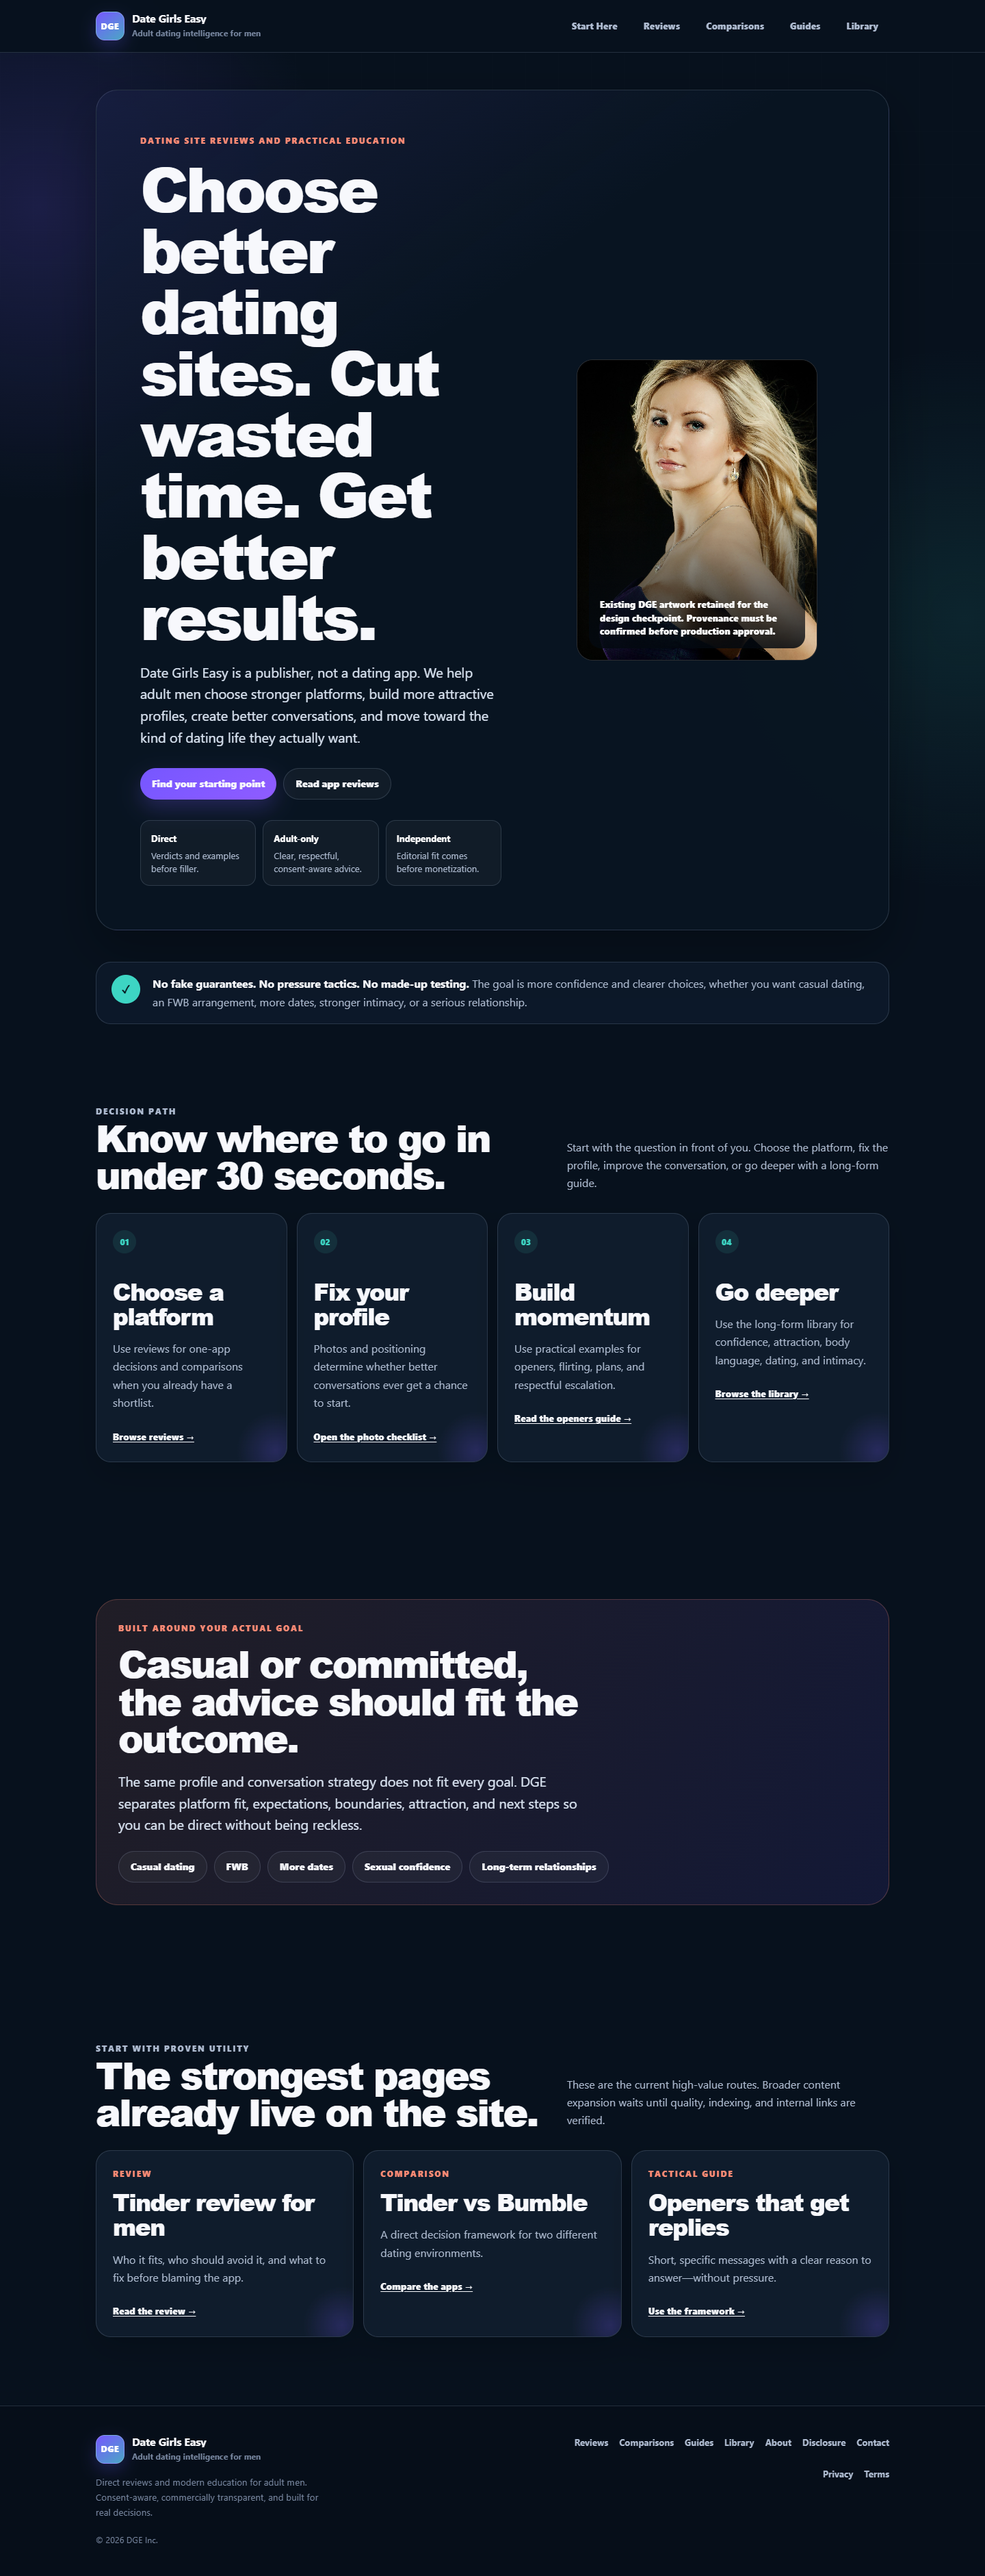
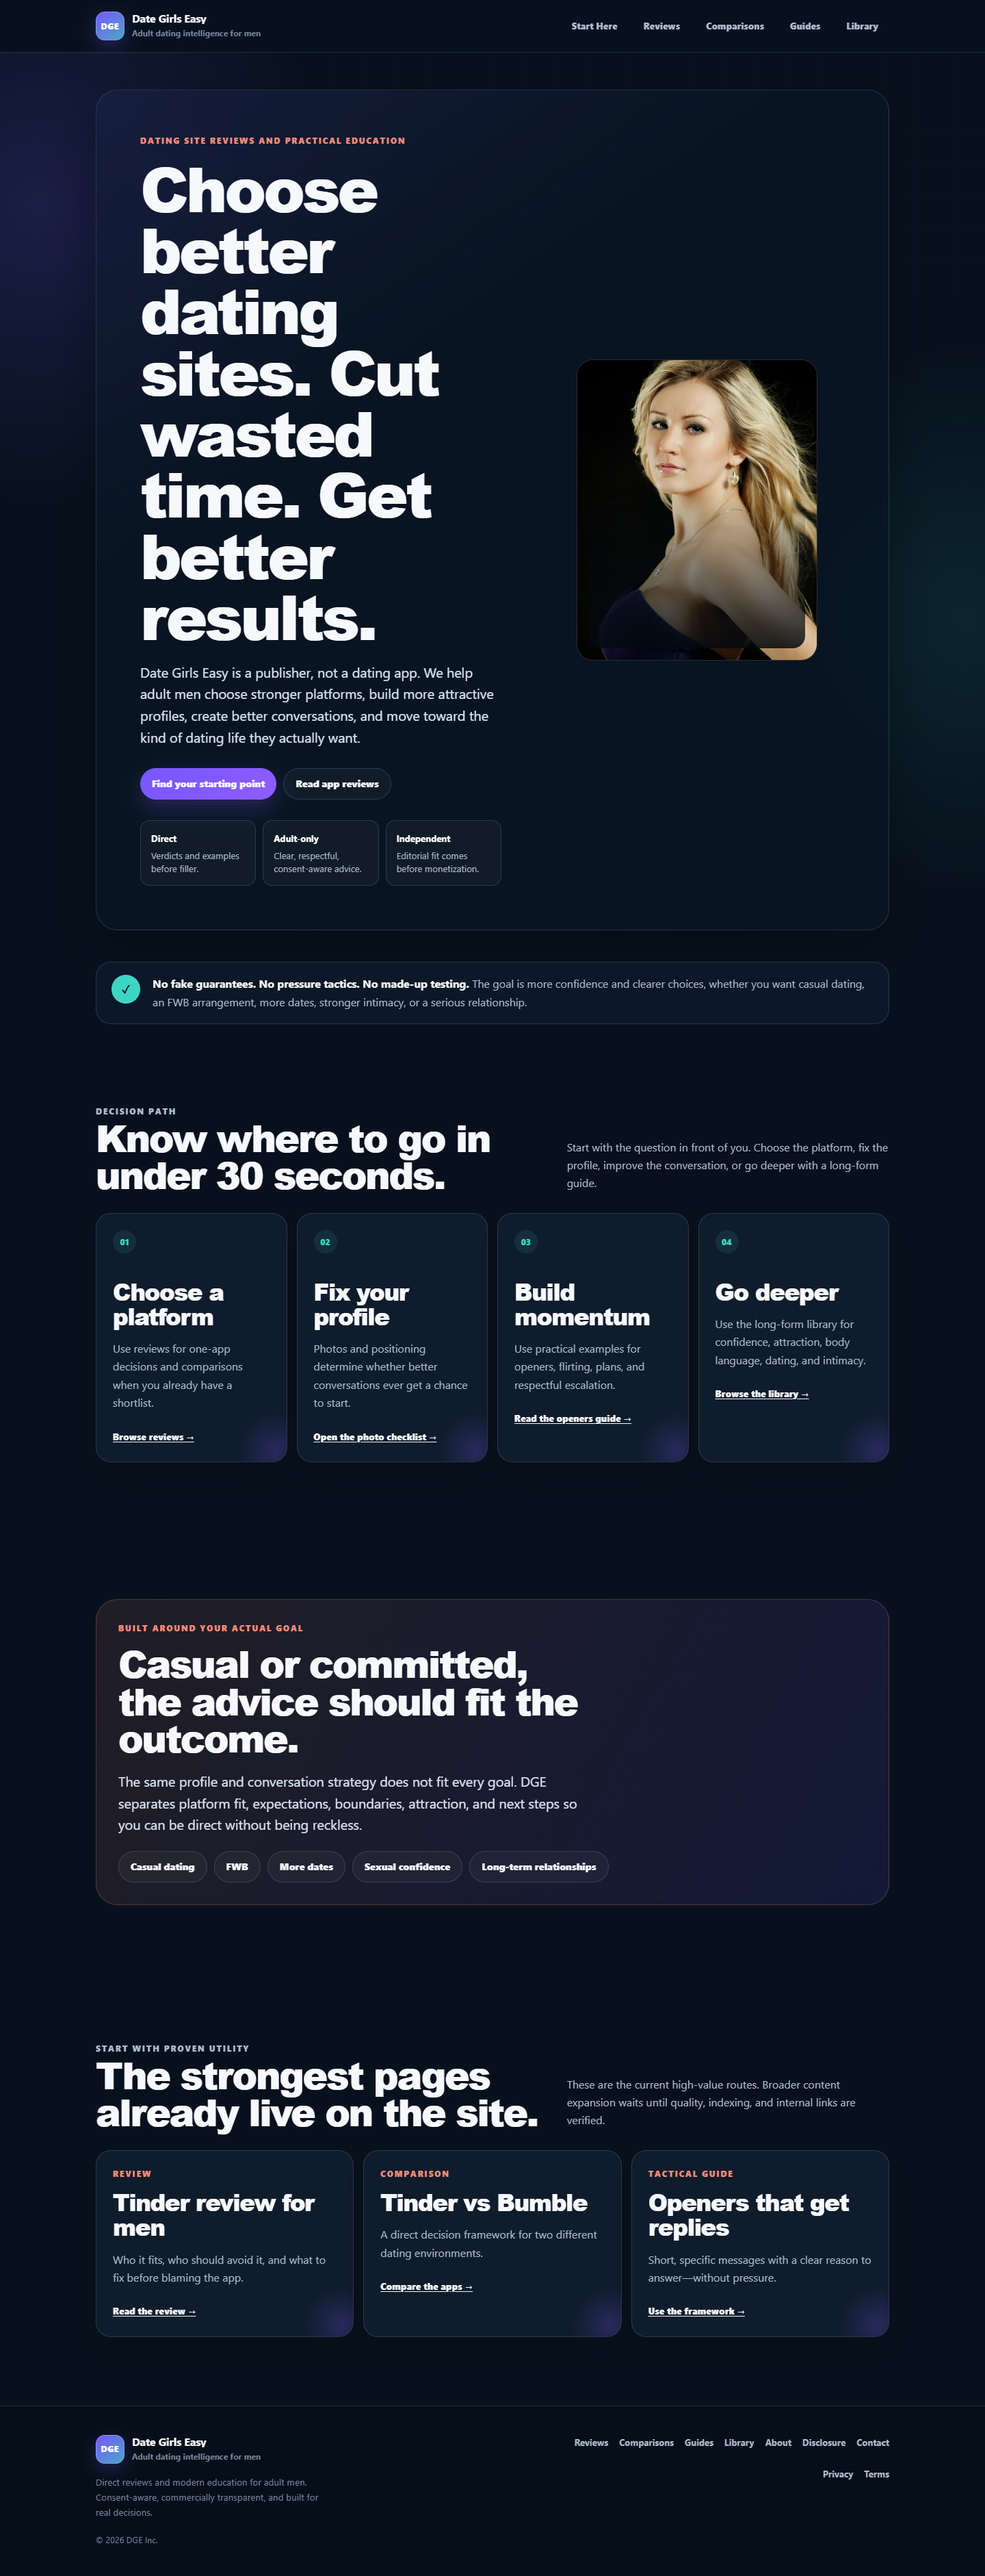
feat: optimize supplied homepage hero responsively

Changed region(s): [[0.625, 0.1244, 0.8438, 0.2487]]

diff --git a/index.html b/index.html
@@ -20,7 +20,8 @@
     <meta name="twitter:title" content="Date Girls Easy" />
     <meta name="twitter:description" content="Dating site reviews, comparisons, tactical guides, and long-form education for adult men." />
     <meta name="twitter:image" content="https://dategirlseasy.com/assets/og/default.png" />
-    <link rel="preload" as="image" href="/assets/hero.jpg" fetchpriority="high" />
+    <link rel="preload" as="image" href="/assets/images/homepage/homepage-alluring-woman-night-out-hero-portrait-960.webp" type="image/webp" media="(min-width: 801px)" fetchpriority="high" />
+    <link rel="preload" as="image" href="/assets/images/homepage/homepage-alluring-woman-night-out-hero-landscape-960.webp" type="image/webp" media="(max-width: 800px)" fetchpriority="high" />
     <link rel="stylesheet" href="/design-v2.css" />
     <script>document.documentElement.className = "js";</script>
     <script type="application/ld+json">
@@ -90,8 +91,11 @@
             </div>
           </div>
           <figure class="hero-visual">
-            <img src="/assets/hero.jpg" width="1536" height="2048" alt="Adult woman in an evening portrait against a dark background" loading="eager" fetchpriority="high" />
-            <figcaption class="hero-caption">Existing DGE artwork retained for the design checkpoint. Provenance must be confirmed before production approval.</figcaption>
+            <picture>
+              <source media="(max-width: 800px)" type="image/webp" srcset="/assets/images/homepage/homepage-alluring-woman-night-out-hero-landscape-640.webp 640w, /assets/images/homepage/homepage-alluring-woman-night-out-hero-landscape-960.webp 960w" sizes="calc(100vw - 76px)" />
+              <source type="image/webp" srcset="/assets/images/homepage/homepage-alluring-woman-night-out-hero-portrait-640.webp 640w, /assets/images/homepage/homepage-alluring-woman-night-out-hero-portrait-960.webp 960w" sizes="(max-width: 1160px) 40vw, 430px" />
+              <img src="/assets/hero.jpg" width="960" height="1200" alt="Adult woman in an evening portrait against a dark background" loading="eager" fetchpriority="high" />
+            </picture>
           </figure>
         </div>
       </section>

diff --git a/scripts/qa_site.py b/scripts/qa_site.py
@@ -99,6 +99,11 @@ class PageParser(HTMLParser):
             self.images.append(clean_img)
             if attrs.get("src"):
                 self.refs.append(("img", attrs["src"] or ""))
+        if tag in {"img", "source"} and attrs.get("srcset"):
+            for candidate in (attrs["srcset"] or "").split(","):
+                reference = candidate.strip().split()[0] if candidate.strip() else ""
+                if reference:
+                    self.refs.append(("responsive image", reference))
 
     def handle_endtag(self, tag: str) -> None:
         if tag == "title":

diff --git a/IMAGE-REQUESTS-BATCH-01.md b/IMAGE-REQUESTS-BATCH-01.md
@@ -4,18 +4,21 @@ No image in this batch may be published until the owner confirms provenance and 
 
 ## IMAGE REQUEST 001 — Homepage hero
 
+Status: owner-selected source supplied at `assets/hero.jpg` (1536 × 2048). Responsive crops are implemented under `assets/images/homepage/`; publication-rights documentation remains required before production approval.
+
 - Target: homepage, first viewport; embody the attractive dating life the male reader wants without implying a testimonial, availability, or endorsement.
 - Subject: clearly adult, alluring woman dressed for an upscale evening out; confident, warm, sensual, and approachable without looking submissive or overtly sexualized.
 - Composition: waist-up environmental portrait, subject on right third, useful negative space on left; direct or near-camera eye contact that creates energy without suggesting a personal promise.
 - Style: sophisticated nightlife editorial photography, deep navy shadows, warm skin tones, restrained purple/teal practical light, and a warmer sensual accent.
-- Orientation: landscape 4:3; 1600 × 1200 master.
+- Orientation: supplied portrait master retained unchanged. The site uses art-directed 4:5 desktop and 4:3 phone/tablet WebP derivatives, so no stretching or generative alteration is required.
 - Include: unambiguously adult subject, elegant fitted evening clothing, polished styling, subtle nightlife context, and an aspirational but credible mood.
 - Exclude: nudity, lingerie, transparent clothing, pornographic posing, bedroom setting, exaggerated body emphasis, alcohol emphasis, logos, text, fake app UI, or any visual suggestion that she endorses the site or is available to the reader.
-- Filename: `homepage-alluring-woman-night-out-hero.jpg`
+- Source filename: `assets/hero.jpg`
+- Derived filenames: `homepage-alluring-woman-night-out-hero-portrait-640.webp`, `homepage-alluring-woman-night-out-hero-portrait-960.webp`, `homepage-alluring-woman-night-out-hero-landscape-640.webp`, and `homepage-alluring-woman-night-out-hero-landscape-960.webp`.
 - Draft alt: “Stylish adult woman dressed for an evening out.”
 - Mobile crop: preserve her face, eye contact, and upper-body silhouette in a centered 4:3 crop; never crop primarily to breasts or other sexualized body areas.
 
-Editorial rationale: the homepage hero should visualize the reader's desired social and romantic outcome. A male model can create unhelpful status comparison—especially if he appears unusually handsome—while an attractive adult woman more directly supports the site's audience promise. The treatment should remain tasteful enough for mainstream advertising, affiliate, email, and payment platforms.
+Editorial rationale: the homepage hero should visualize the reader's desired social and romantic outcome. A male model can create unhelpful status comparison—especially if he appears unusually handsome—while an attractive adult woman more directly supports the site's audience promise. The treatment should remain tasteful enough for mainstream advertising, affiliate, email, and payment platforms. The supplied portrait is used without changing the subject's appearance; only deterministic crops, resizing, and WebP compression are applied.
 
 ## IMAGE REQUEST 002 — Tinder review decision visual
 

diff --git a/CHANGELOG-PROJECT.md b/CHANGELOG-PROJECT.md
@@ -13,3 +13,4 @@
 - Added repeatable structural and browser QA. All 34 HTML files and 27 sitemap URLs pass; all five representative pages pass overflow and console checks at 320, 375, 390, 768, 1024, and 1440 pixels.
 - Captured permanent desktop and phone-width before/after screenshots. No production deployment or push occurred.
 - Revised Homepage IMAGE REQUEST 001 after owner feedback: the intended hero subject is now an alluring adult woman rather than a male model, with mainstream-safe sensuality and no implied endorsement or availability.
+- Integrated the owner-selected `assets/hero.jpg` without generative alteration. Added art-directed 4:5 desktop and 4:3 phone/tablet WebP derivatives, responsive source selection, corrected intrinsic sizing, and removed the internal provenance warning from the visible image overlay while retaining the approval gate in project documentation.
